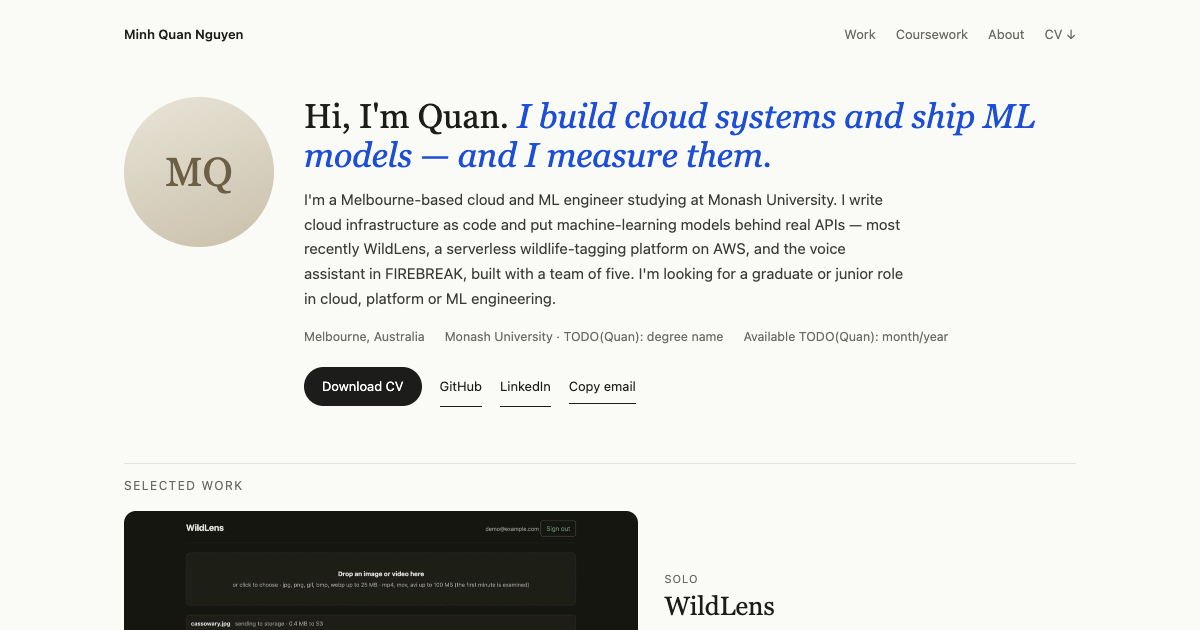
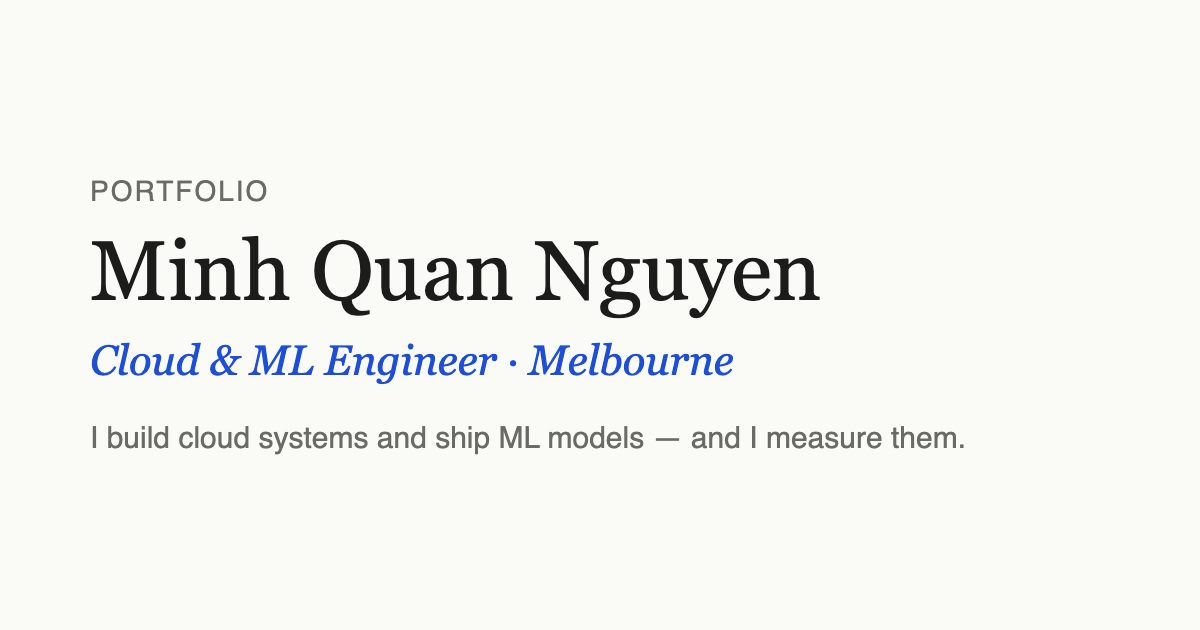
fix: final review findings (share image, predeploy, CloudEco and WildLens wording, tests)

diff --git a/tests/build.test.js b/tests/build.test.js
@@ -51,8 +51,18 @@ test('no tile is hidden in static HTML', () => {
   assert.doesNotMatch(readDist('index.html'), /data-tags="[^"]*"[^>]*\shidden/);
 });
 test('private repos are never linked', () => {
-  const html = readDist('index.html');
-  for (const bad of ['fit5222-student-repositories', 'too-many-chefs-mquannguyen', 'FIT5225_Assignment2_Group132']) assert.ok(!html.includes(bad), bad);
+  for (const f of allDistHtml()) {
+    const html = readDist(f);
+    for (const bad of ['fit5222-student-repositories', 'too-many-chefs-mquannguyen', 'mingjun6886/too-many-chefs', 'FIT5225_Assignment2_Group132']) assert.ok(!html.includes(bad), `${bad} in ${f}`);
+  }
+});
+test('cloudeco does not claim more pods than ran', () => {
+  const html = readDist('projects/cloudeco/index.html');
+  assert.doesNotMatch(html, /1→8/);
+  assert.match(html, /8 requested/);
+});
+test('wildlens cost claim says what the $80 is', () => {
+  assert.match(readDist('index.html'), /without the queue/);
 });
 
 test('detail pages exist only for entries with a body', () => {
@@ -67,7 +77,7 @@ test('team project states size and role', () => {
 test('bare project renders without empty boxes', () => {
   const html = readDist('projects/too-many-chefs/index.html');
   assert.doesNotMatch(html, /<img(?![^>]*src="[^"]+")/);
-  assert.doesNotMatch(html, /class="metrics"/);
+  assert.doesNotMatch(html, /<dl class="metrics/);
   assert.doesNotMatch(html, /github\.com\/[^"\/]+\/[^"]+/);
 });
 test('wildlens links its live demo and walkthrough', () => {

diff --git a/tests/predeploy.test.js b/tests/predeploy.test.js
@@ -1,6 +1,6 @@
 import test from 'node:test';
 import assert from 'node:assert/strict';
-import { findPlaceholders, extractRefs } from '../scripts/predeploy.mjs';
+import { findPlaceholders, extractRefs, isCheckable } from '../scripts/predeploy.mjs';
 
 test('finds placeholders', () => {
   assert.deepEqual(findPlaceholders('<p>TODO(Quan): degree name</p><a href="https://todo-quan.vercel.app">'), ['TODO(Quan): degree name', 'todo-quan']);
@@ -8,4 +8,8 @@ test('finds placeholders', () => {
 });
 test('extracts refs', () => {
   assert.deepEqual(extractRefs('<a href="/cv.pdf"></a><img src="/p.jpg">'), ['/cv.pdf', '/p.jpg']);
+});
+test('skips hosts that block scripted requests', () => {
+  assert.equal(isCheckable('https://www.linkedin.com/in/x'), false);
+  assert.equal(isCheckable('https://github.com/x'), true);
 });

diff --git a/scripts/og-card.html b/scripts/og-card.html
@@ -1,0 +1,5 @@
+<!doctype html><meta charset="utf-8"><body style="margin:0;width:1200px;height:630px;background:#fafaf7;color:#1c1c1a;font-family:Georgia,serif;display:flex;flex-direction:column;justify-content:center;padding:0 90px;box-sizing:border-box">
+<div style="font:500 28px -apple-system,sans-serif;color:#6b6b66;letter-spacing:2px;text-transform:uppercase">Portfolio</div>
+<div style="font-size:84px;line-height:1.1;margin:18px 0">Minh Quan Nguyen</div>
+<div style="font-size:42px;color:#1d4ed8;font-style:italic">Cloud &amp; ML Engineer · Melbourne</div>
+<div style="font:30px -apple-system,sans-serif;color:#6b6b66;margin-top:36px">I build cloud systems and ship ML models — and I measure them.</div>

diff --git a/src/content/projects/firebreak.md b/src/content/projects/firebreak.md
@@ -28,7 +28,7 @@ This was a team of five, built over three assessed iterations. I worked across t
 
 The app is a Vue 3 + Vite frontend over a FastAPI backend with MySQL, using TomTom Orbis for addresses and Bureau of Meteorology data for current conditions and fire danger.
 
-**Voice assistant.** A person can talk to the app while their hands are busy. The model does not run the app: it picks one action from a closed list, and the browser handlers can only navigate and read. A koala character in the corner is the voice button, and its face shows whether it is listening or talking.
+**Voice assistant.** A person can talk to the app while their hands are busy. The model does not run the app: it picks one action from a closed list, and the browser handlers can only navigate, read, or run the meet-up check, and never edit the plan. A koala character in the corner is the voice button, and its face shows whether it is listening or talking.
 
 ## Architecture
 

diff --git a/README.md b/README.md
@@ -39,6 +39,6 @@ Everything about you (name, intro, degree, links, education) lives in `src/site.
 npm run predeploy
 ```
 
-It fails while any `TODO(Quan)` or the placeholder URL `todo-quan` remains, if a file is missing (like `/cv.pdf`), or if a link is dead. Set the real address in `astro.config.mjs` (`site`) so link previews use the right URL.
+It fails while any `TODO(Quan)` or the placeholder URL `todo-quan` remains, if a file is missing (like `/cv.pdf`), or if a link is dead (linkedin.com is skipped because it blocks scripts, so open your LinkedIn link yourself). The share image `public/og.png` is made from `scripts/og-card.html` (name and title only, no personal details); edit that file and re-screenshot it at 1200×630 if you change your title. Set the real address in `astro.config.mjs` (`site`) so link previews use the right URL.
 
 Deploy by importing the GitHub repo in Vercel (the Astro preset needs no settings).

diff --git a/src/content/projects/cloudeco.md b/src/content/projects/cloudeco.md
@@ -8,8 +8,8 @@ tags: [Cloud, AI/ML]
 stack: [FastAPI, ONNX Runtime, YOLOv8, Docker, Kubernetes (kubeadm), Oracle Cloud, Terraform, Locust]
 metrics:
   - { value: "99%", label: "scaling efficiency, 1→2 pods" }
-  - { value: "2.0 req/s", label: "throughput at 8 replicas requested" }
-  - { value: "1→8", label: "replicas load-tested" }
+  - { value: "2.0 req/s", label: "throughput at the top step" }
+  - { value: "1→6", label: "pods running (8 requested)" }
 links:
   github: https://github.com/mingjun6886/cloudeco-wildlife-inference
 code_public: true

diff --git a/src/content/projects/wildlens.md b/src/content/projects/wildlens.md
@@ -6,7 +6,7 @@ period: Sep–Nov 2026
 tags: [Cloud, AI/ML]
 stack: [AWS, Terraform, Lambda (container), S3, SQS, Cognito, MegaDetector, SpeciesNet, GitHub Actions]
 metrics:
-  - { value: "~$4", label: "worst-case cost (was ~$80)" }
+  - { value: "~$4", label: "worst-case cost, vs ~$80 without the queue" }
   - { value: "100%", label: "Terraform" }
   - { value: "13", label: "pipeline stages" }
 links:
